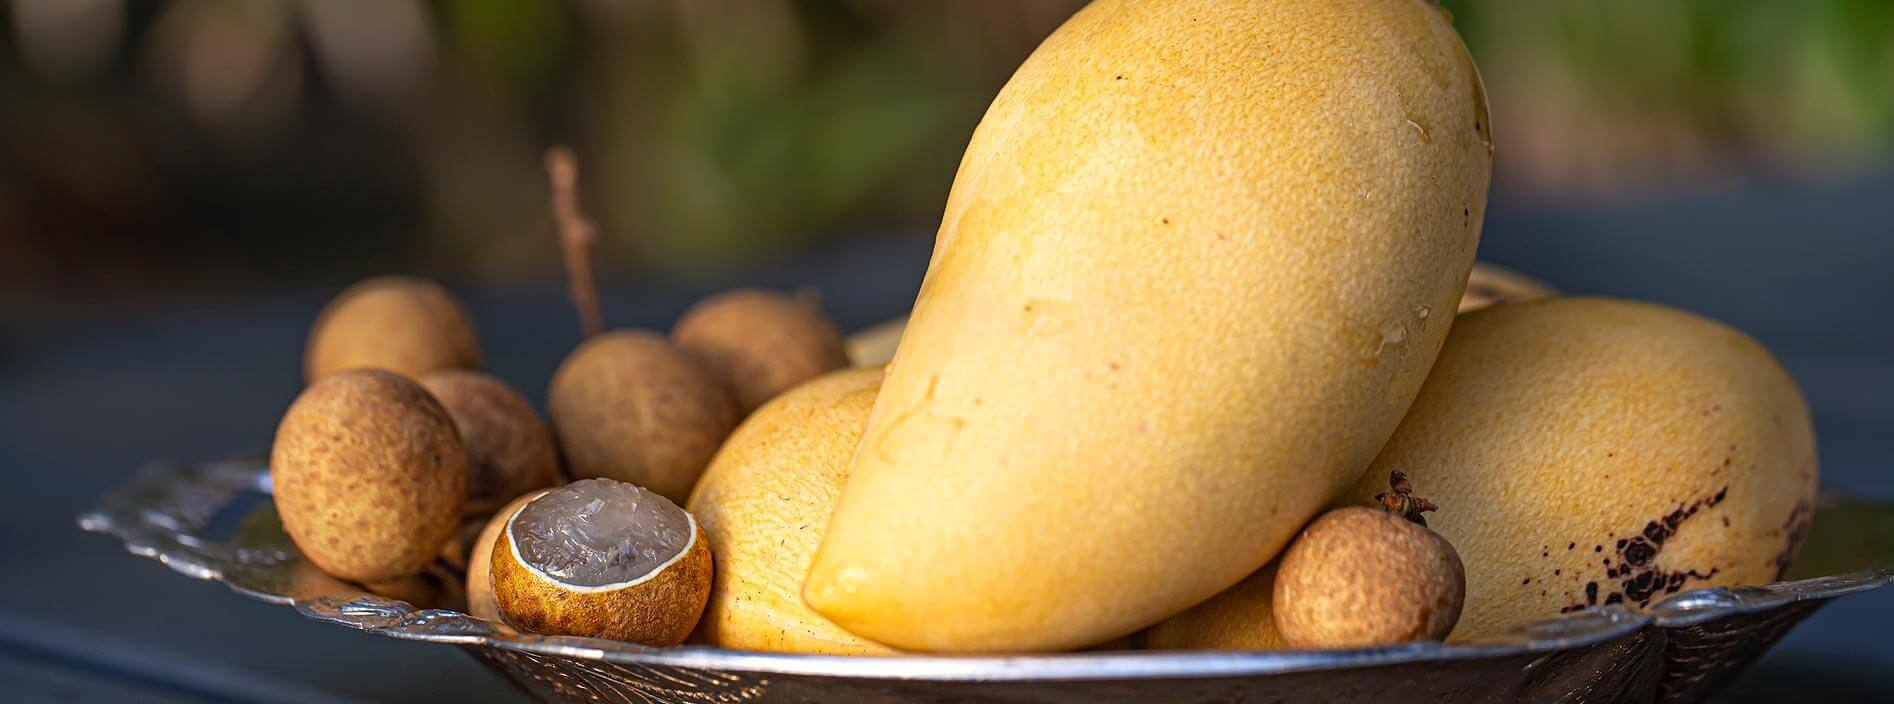
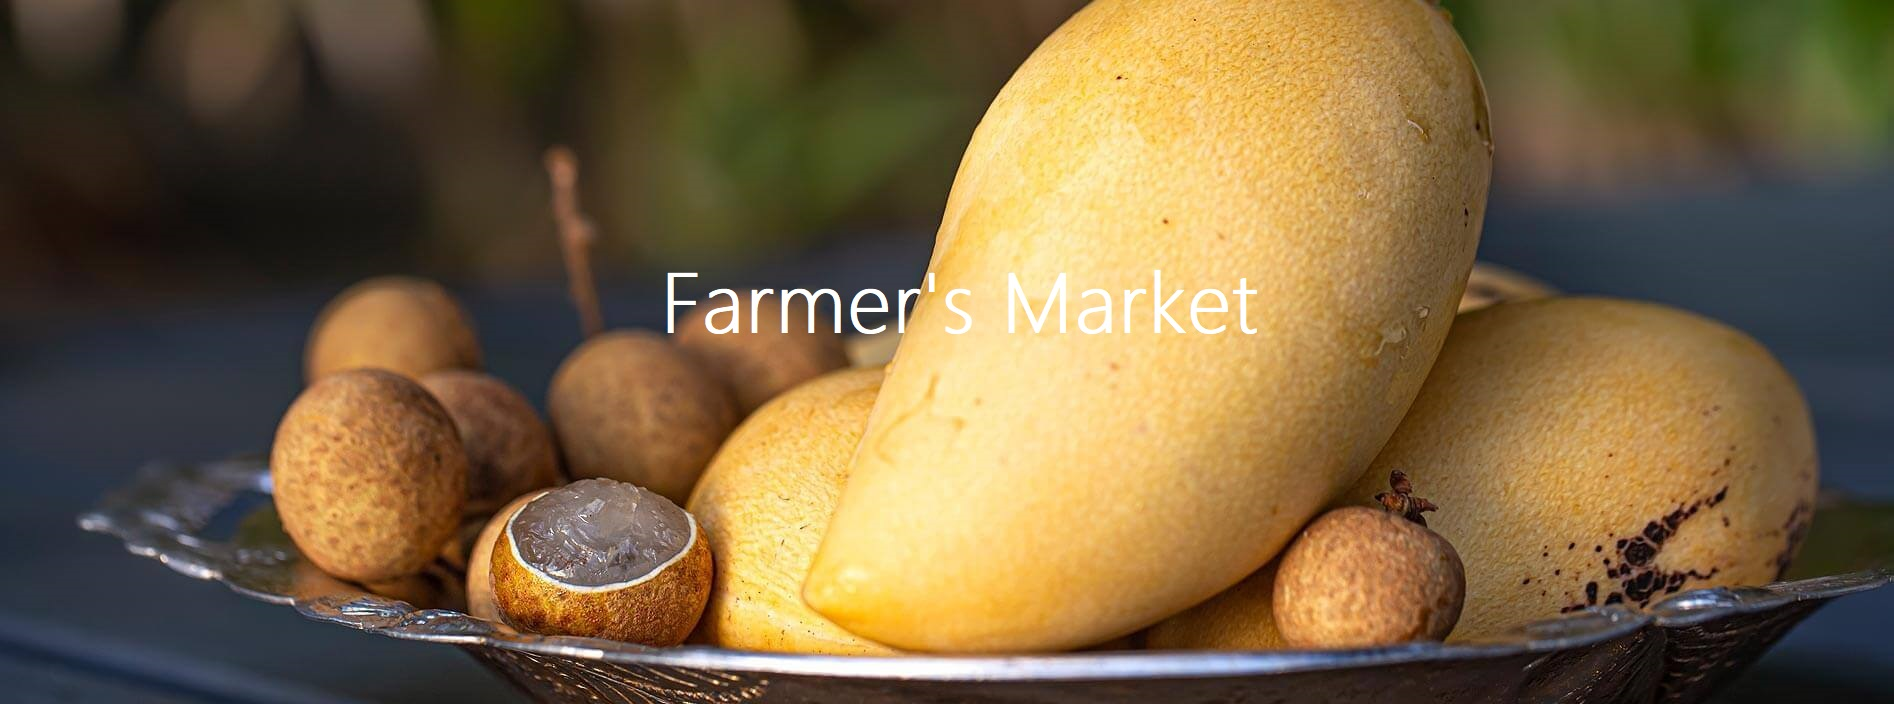
last commit

Changed region(s): [[0.3427, 0.375, 0.6853, 0.4688]]

diff --git a/templates/index.html b/templates/index.html
@@ -268,11 +268,11 @@
         >
           <div class="swiper-wrapper">
             <div class="swiper-slide">
-              <!-- <div
+              <div
                 class="image-layer-three"
               >
-              <img src="{% static 'assets/main-slider-3-1.jpg' %}" alt="">
-            </div> -->
+              <img src="{% static 'images/main-slider-3-1.jpg' %}" alt="">
+            </div>
               <!-- /.image-layer -->
               <div class="container">
                 <div class="row">
